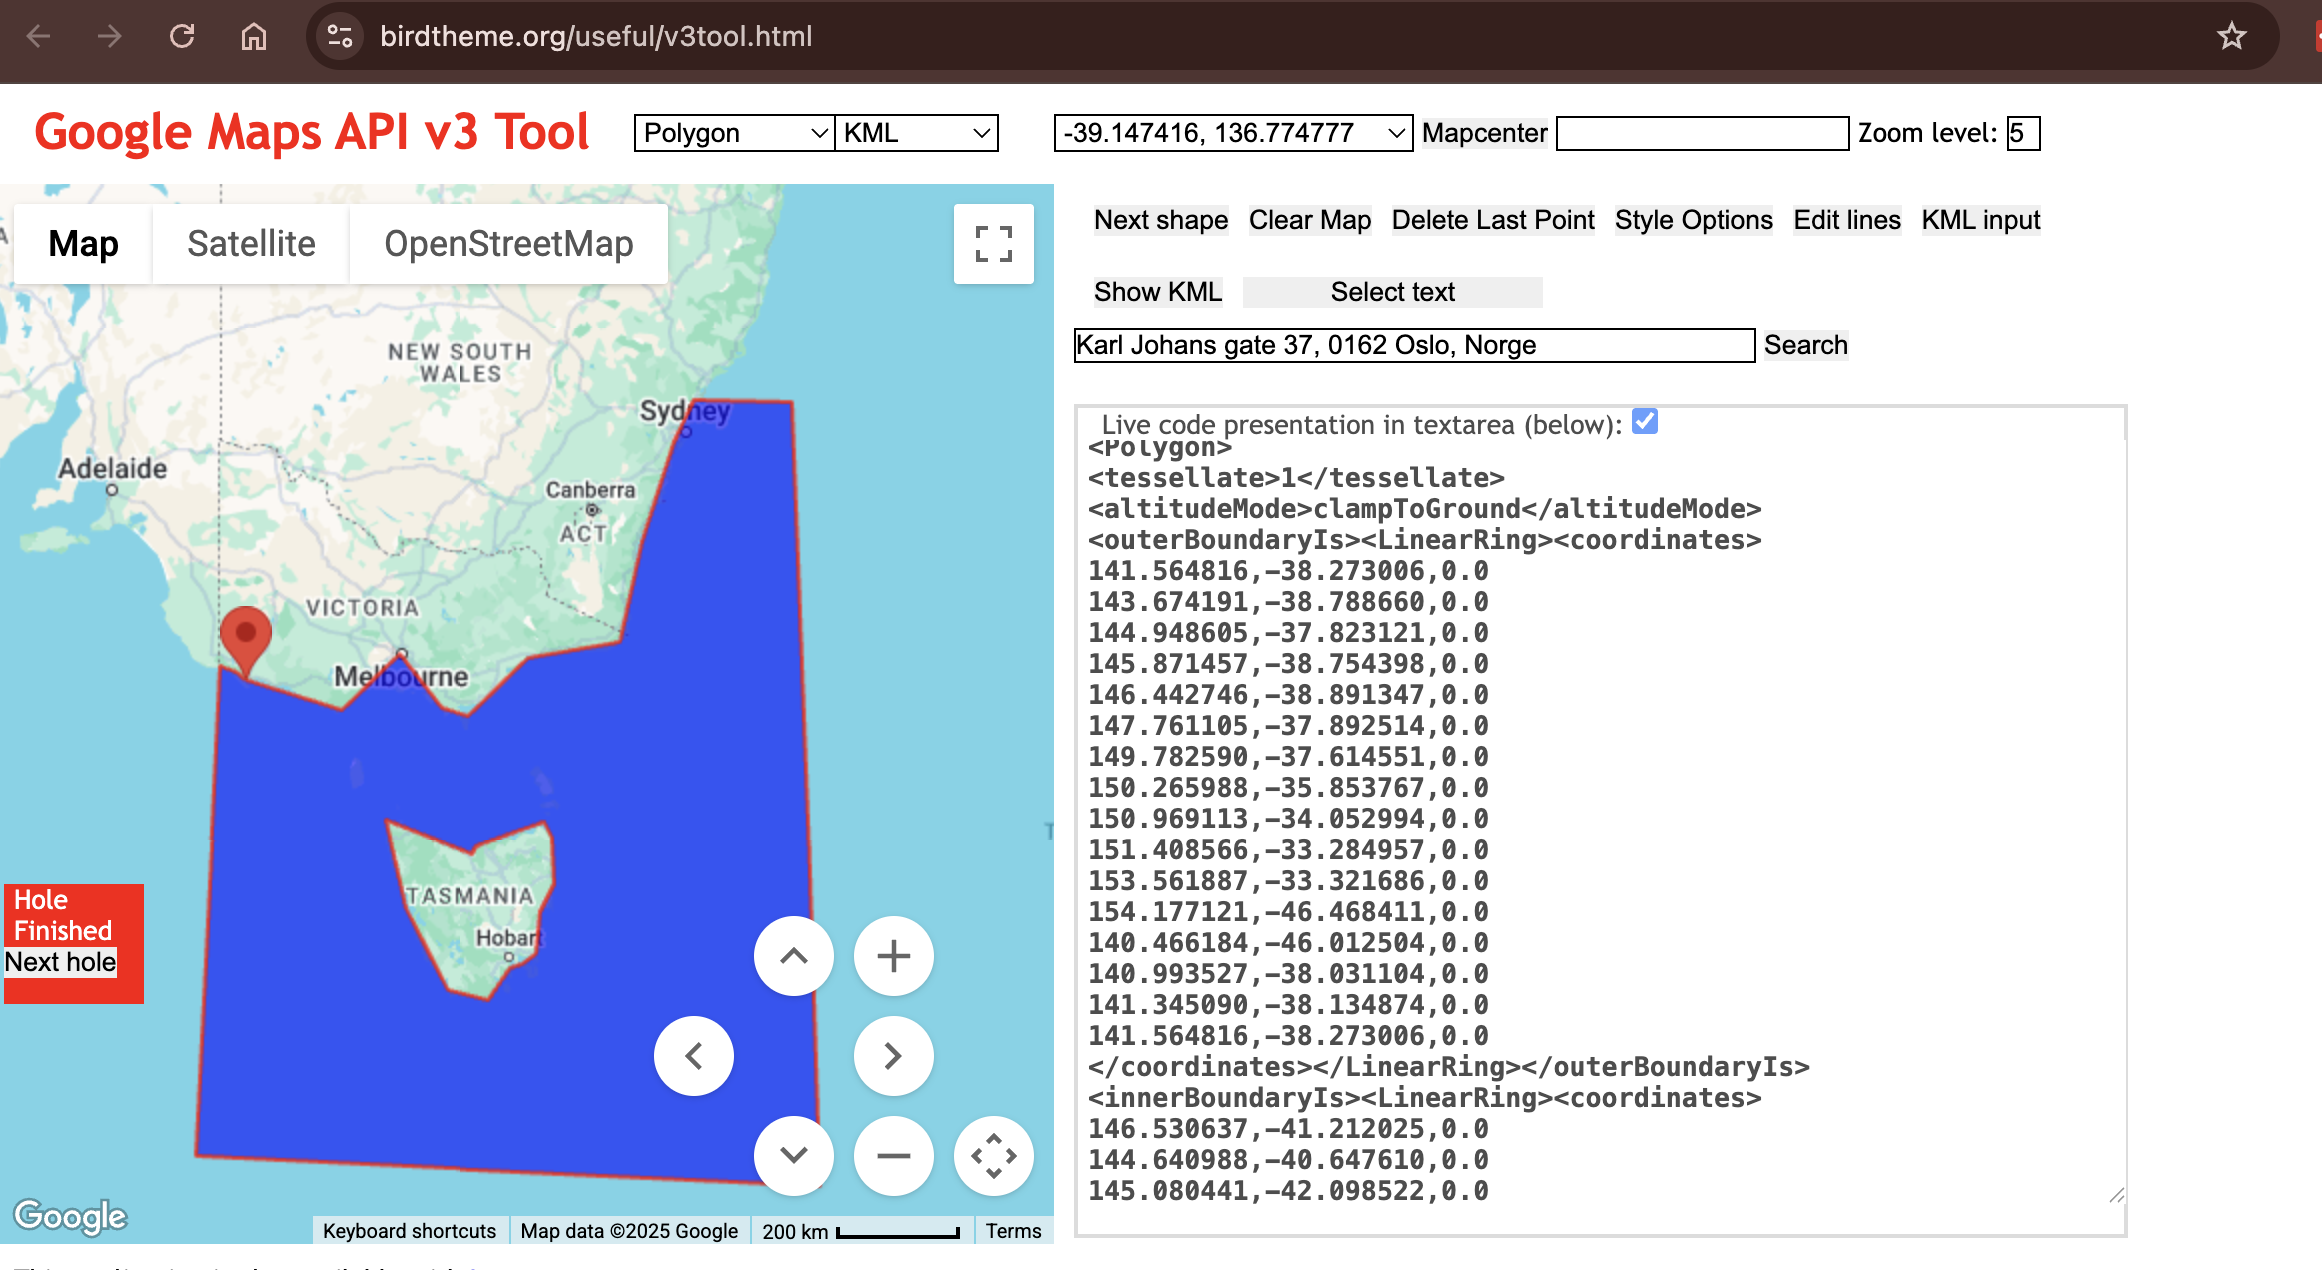
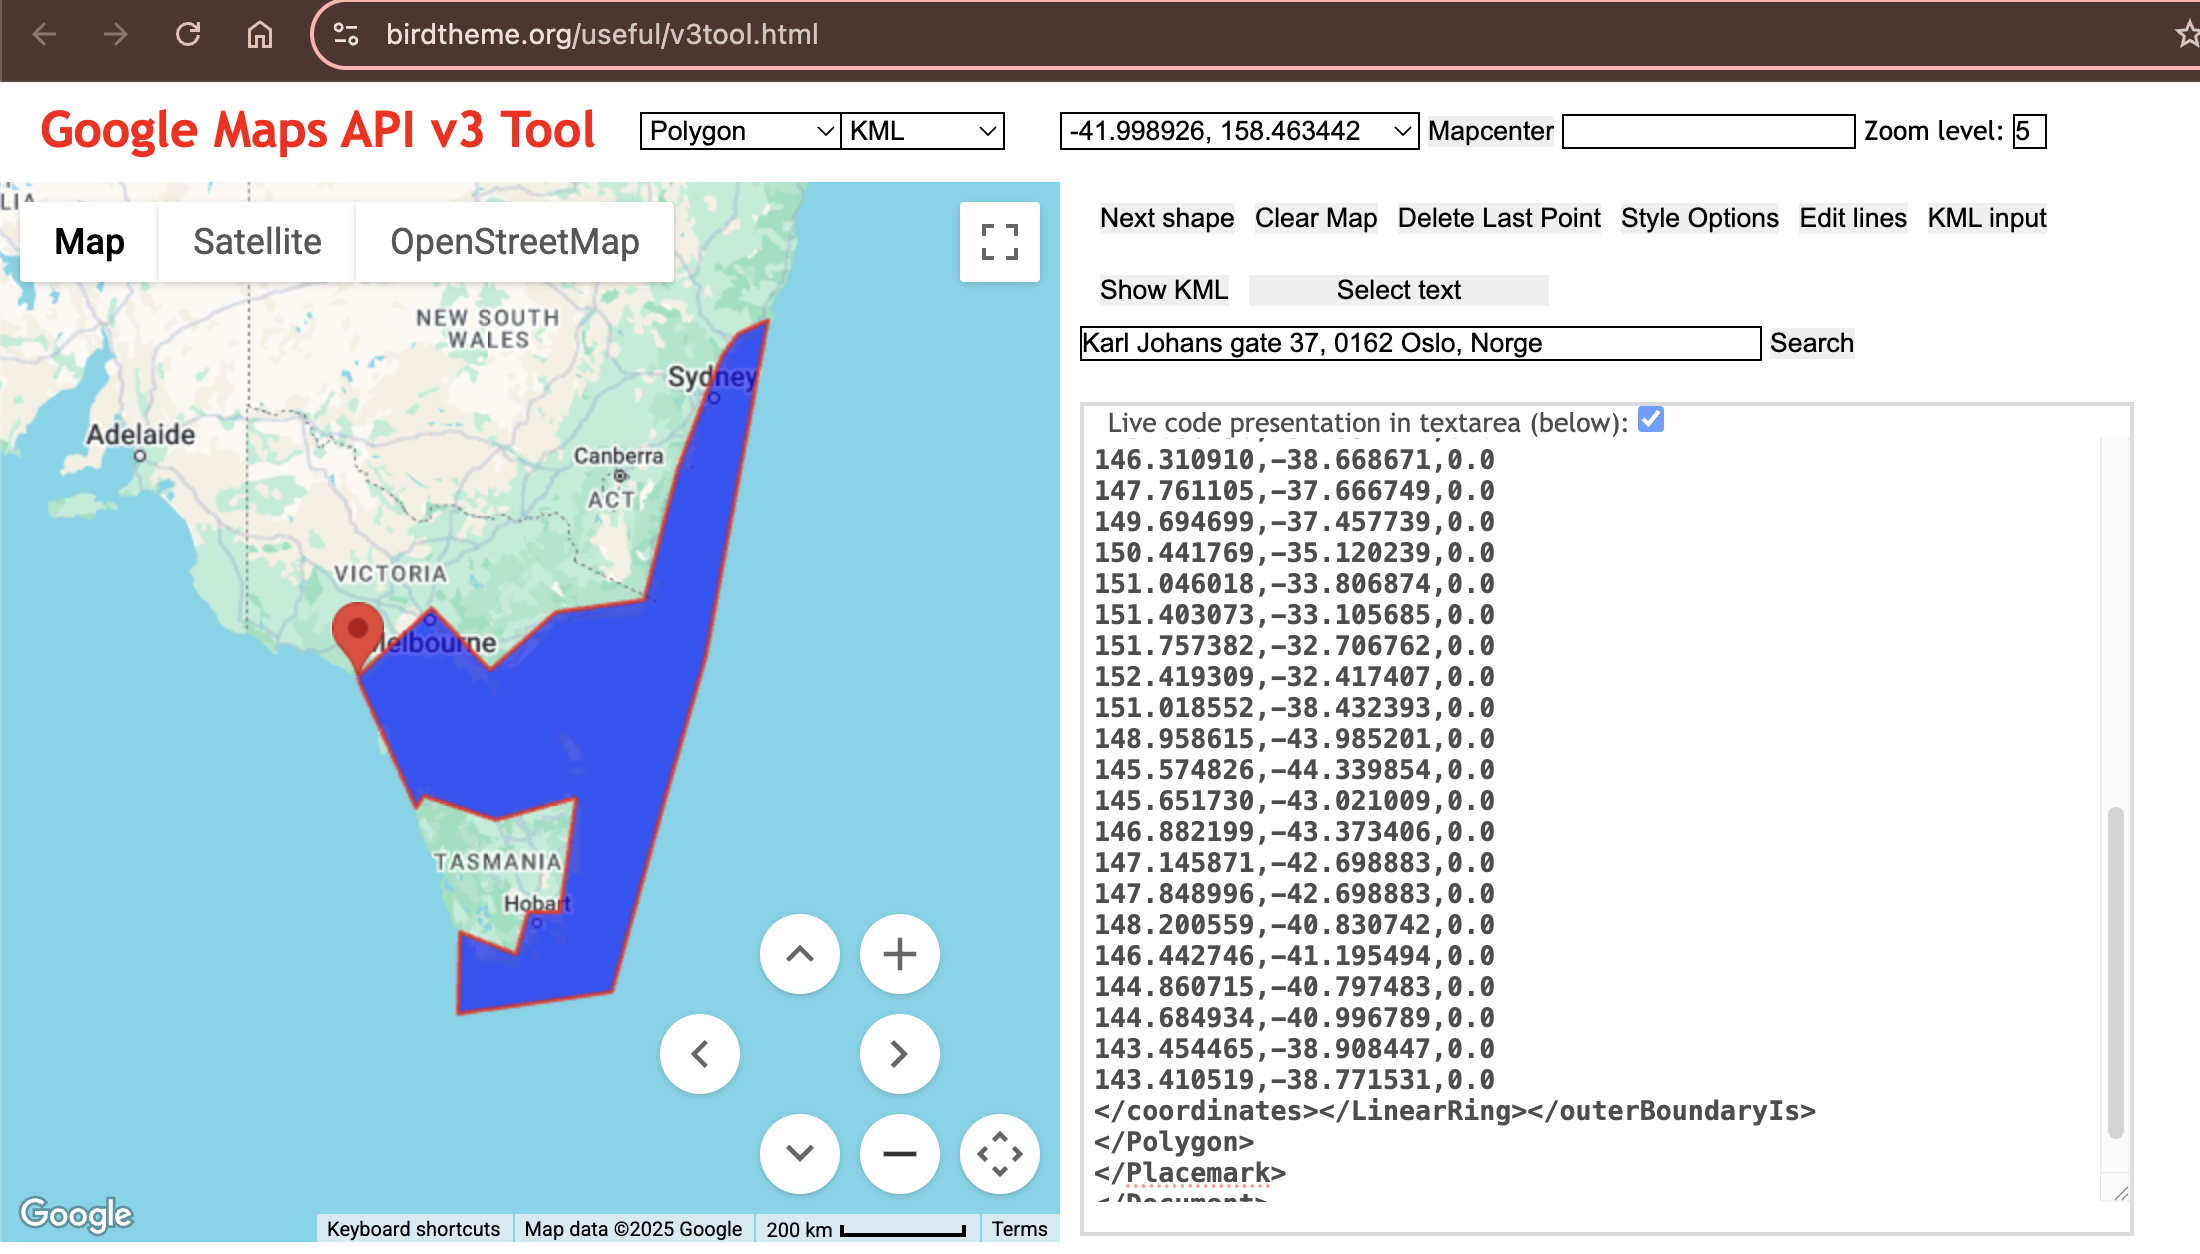
fine tuning materials geared toward new scripted installs, and first pass on feems tutorial

diff --git a/Brisbane2025/FEEMS_API.md b/Brisbane2025/FEEMS_API.md
@@ -17,9 +17,9 @@ valley and the Arabian peninsula.
 
 ![png](images/lions_EEMS.png)
 
-For more information about EEMS, check out [Petkova *et al* 
-(2016)](https://www.nature.com/articles/ng.3464), and for FEEMS, check out 
-[Marcus *et al* (2021)](https://elifesciences.org/articles/61927).
+For more information on these methods see the original manuscripts:
+* EEMS - [Petkova *et al* (2016)](https://www.nature.com/articles/ng.3464)
+* FEEMS - [Marcus *et al* (2021)](https://elifesciences.org/articles/61927).
 
 ## FEEMS install/configuration
 FEEMS can be a bit tricky to install, so for the purpose of this workshop
@@ -27,31 +27,22 @@ we wrote all the steps into a script that you can simply execute (to save
 time). You can see the details of what the script is actually doing
 in the [RADCamp technical configuration document.](./technical-configuration.html#feems-install-script)
 
-## Input data
-What is the necessary input data for FEEMS?
-* genotypes
-* latlongs (= localities of your samples)
-* bounding area for plotting
-* .shp file (global map)
-
-# **FEEMS** analyses
-
-## Access the FEEMS environment
-The FEEMS module requires a substantially different configuration than the
-other analysis tools in this workshop, so we have installed this software
-in a separate conda environment with an isolated jupyter notebook server
-running on a different port. To access this environment open a new browser
-tab and navigate to:
-
-`http://localhost:8801`
+Open a new Terminal and type:
+```
+/home/jovyan/work/scripts/install_feems.sh
+```
+This will run for a few minutes, writing progress to the screen. After it finishes
+you can proceed with the rest of this tutorial.
 
 ## Create a new notebook for the FEEMS analysis
 In the jupyter notebook browser interface navigate to your `ipyrad-workshop`
-directory and create a "New->Python" Notebook.
+directory and use the Launcher to create a new Notebook using the 'feems' 
+environment.
 
-![png](images/raxml-CreateNotebook.png)
+![png](images/jupyter-NewNotebook-feemsEnv.png)
 
-First things first, rename your new notebook to give it a meaningful name. Choose `File->Save Notebook` and rename your notebook to "cheetah-FEEMS.ipynb"
+First things first, rename your new notebook to give it a meaningful name. 
+Choose `File->Save Notebook` and rename your notebook to "seadragon-FEEMS.ipynb"
 
 ## Import FEEMS and other necessary modules
 The `import` keyword directs python to load a module into the currently running
@@ -60,22 +51,25 @@ importing the ipyrad analysis module. Copy the code below into a
 notebook cell and click run. 
 
 ```python
-%matplotlib inline
-
-# base
-import h5py
-import numpy as np
-import pandas as pd
-from sklearn.impute import SimpleImputer 
-# viz 
-import matplotlib.pyplot as plt 
 import cartopy.crs as ccrs 
-# feems 
-from feems.utils import prepare_graph_inputs 
+import h5py
+import matplotlib.pyplot as plt 
+import numpy as np
+
 from feems import SpatialGraph, Viz 
+from feems.utils import prepare_graph_inputs 
+from sklearn.impute import SimpleImputer 
 ```
 
-## Import the data and impute missing values
+## Input data types
+What is the necessary input data for FEEMS? We will briefly walk through these 
+different datatypes and where to geth these from.
+* Genotype data for all samples
+* Latitude/Longitude coordinates for samples
+* Coordinates of a polygon circumscribing your focal region
+* A vector file of a global-scale triangular grid (.shp file)
+
+### Import the genotype data and impute missing values
 
 ```python
 # Path to the input phylip file
@@ -88,40 +82,70 @@ imp = SimpleImputer(missing_values=np.nan, strategy="mean")
 genotypes = imp.fit_transform(np.array(G).T) 
 ```
 
-### What is 'imputation' and why do we need to do it?
+> **What is 'imputation' and why do we need to do it?** FEEMS can't deal with
+missing data. Here we are filling missing genotypes with the mean value at
+a given site.
 
-```python
-locus = 11
-print(G[locus])
-genotypes[:, locus]
-```
-```
-[nan  1. nan  1.  2. nan nan  0.  0. nan nan nan nan nan nan nan nan  1.
- nan  0. nan nan  2.]
-array([0.875, 1.   , 0.875, 1.   , 2.   , 0.875, 0.875, 0.   , 0.   ,
-       0.875, 0.875, 0.875, 0.875, 0.875, 0.875, 0.875, 0.875, 1.   ,
-       0.875, 0.   , 0.875, 0.875, 2.   ])
-```
-```python
-locus = 11
-names = data["snps"].attrs["names"]
-pd.DataFrame([G[locus], genotypes[:, locus]], columns=names, index=["pre-imputation", "post-imputation"]).T
-```
-![png](images/FEEMS-ImputationDF.png)
+### Latitude/Longitude coordinates for samples
+Typically, you will have information about the sampling localities of your data. 
+FEEMS takes this data as a vector of Longitude/Latitude coordinates. To save time 
+we've already prepared this file for you, and you can look at the structure of 
+the file and the first few lines:
 
-## Fetch the GPS coordinates for the samples and the 'outer' points
-Typically, you will have information about the sampling localities of your data. FEEMS takes these data as a vector of GPS coördinates, and the file should have the extension `.coord`. We've already prepared this file for you, and you can simply download it. 
+```bash
+head ~/work/SeadragonData/seadragon_coords.txt
+```
+```
+148.308428 -41.869351
+148.308428 -41.869351
+148.308428 -41.869351
+148.308428 -41.869351
+148.308428 -41.869351
+148.308428 -41.869351
+151.219347 -34.002666
+151.219347 -34.002666
+151.219347 -34.002666
+151.219347 -34.002666
+```
 
-You also need to provide FEEMS with an outline of the area you want to include in your analysis, and provide this as a file with the extension `.outer`. You can use the following [website](http://www.birdtheme.org/useful/v3tool.html) to create one, simply by clicking on the map and then copy-pasting the coördinates to a new file. 
+### Coordinates of a polygon circumscribing your focal region
+You also need to provide FEEMS with an 'outline' of the area you want to include 
+in your analysis. The format of the 'outer' file should be a plain text file
+with a list of Longitude/Latitude points describing a polygon of your bounding
+region. You can use the following [website](http://www.birdtheme.org/useful/v3tool.html) to 
+create one of these, by clicking on the map and then copy-pasting the coordinates 
+to a new file. 
 
 ![png](images/FEEMS_outer.png)
 
-To save time, we've also prepare this file for you, and for this workshop you can simply download it.
+To save time, we've also prepared this file for you and you can look at the
+structure of the file and the first few lines:
 
+```bash
+$ head ~/work/SeadragonData/seadragon_outer.txt
 ```
-!wget https://raw.githubusercontent.com/radcamp/radcamp.github.io/master/Kigali2023/Cheetah.coords
-!wget https://raw.githubusercontent.com/radcamp/radcamp.github.io/master/Kigali2023/Cheetah.outer
 ```
+143.410519 -38.771531
+145.036496 -37.597144
+146.310910 -38.668671
+147.761105 -37.666749
+149.694699 -37.457739
+150.441769 -35.120239
+151.046018 -33.806874
+151.403073 -33.105685
+151.757382 -32.706762
+152.419309 -32.417407
+```
+
+### A vector file of a global-scale triangular grid (.shp file)
+Another necessary input file is a shape file containing a triangular grid
+at a given resolution. It's easiest to use one of the `.shp` files
+provided in the [FEEMS github repository](https://github.com/NovembreLab/feems/tree/main/feems/data),
+which are at 100km and 250km resolution. If you need finer resolution you can use
+a python package called [`pygplates`](https://www.gplates.org/docs/pygplates/),
+or in R you can use the [`sf`](https://r-spatial.github.io/sf/) package. Again,
+to save time we provide a grid file scaled for the Seadragon data within the
+cloud instance `work/grid` directory.
 
 ## Load the coordinates of the samples, the outline and the global shp file
 ```python

diff --git a/Brisbane2025/data_QC.md b/Brisbane2025/data_QC.md
@@ -9,13 +9,13 @@ The CLI provides a way to navigate a file system, move files around, and run com
 For now we will start with 4 of the most common and useful commands:
 
 ```
-(base) jovyan@493222dbc32d:~$ pwd
+(ipyrad) jovyan@493222dbc32d:~$ pwd
 /home/jovyan
 ```
 `pwd` stands for **"print working directory"**, which literally means "where am I now in this filesystem". Just like when you open a file browser with windows or mac, when you open a new terminal the command line will start you out in your "home" directory. Ok, now we know where we are, lets take a look at what's in this directory:
 
 ```
-(base) jovyan@493222dbc32d:~$ ls
+(ipyrad) jovyan@493222dbc32d:~$ ls
 evolution  miniconda3  work
 ```
 
@@ -31,13 +31,13 @@ analysis, but you'll also have a ***ton*** of stuff in your home directory.
 We can start out by adding the first directory for this workshop:
 
 ```
-(base) jovyan@493222dbc32d:~$ mkdir ipyrad-workshop
+(ipyrad) jovyan@493222dbc32d:~$ mkdir ipyrad-workshop
 ```
 
 `mkdir` stands for **"make directory"**, and unlike the other two commands, this command takes an "argument". This argument is the name of the directory you wish to create, so here we direct mkdir to create a new directory called "ipyrad-workshop". Now you can use `ls` again, to look at the contents of your home directory and you should see this new directory now:
 
 ```
-(base) jovyan@493222dbc32d:~$ ls
+(ipyrad) jovyan@493222dbc32d:~$ ls
 evolution  ipyrad-workshop  miniconda3  work
 ```
 
@@ -52,9 +52,9 @@ thing. First **Change Directory** into your `ipyrad-workshop` directory with the
 command, then make the shortcut with `ln` (just copy/paste this command).
 
 ```bash
-(base) jovyan@493222dbc32d:~$ cd ipyrad-workshop
-(base) jovyan@493222dbc32d:~/ipyrad-workshop$ ln -s /home/jovyan/work/SeadragonData/raws ./raws
-(base) jovyan@493222dbc32d:~/ipyrad-workshop$ ls -l
+(ipyrad) jovyan@493222dbc32d:~$ cd ipyrad-workshop
+(ipyrad) jovyan@493222dbc32d:~/ipyrad-workshop$ ln -s /home/jovyan/work/SeadragonData/raws ./raws
+(ipyrad) jovyan@493222dbc32d:~/ipyrad-workshop$ ls -l
 ```
 ```
 lrwxrwxrwx 1 jovyan users   51 Apr 23 14:51 raws -> /home/jovyan/work/SeadragonData/raws
@@ -80,7 +80,7 @@ You can see the fastq files for these samples by listing (`ls`) the directory wh
 they are stored, the `raws` shortcut we created earlier:
 
 ```
-(base) jovyan@493222dbc32d:~/ipyrad-workshop$ ls raws
+(ipyrad) jovyan@493222dbc32d:~/ipyrad-workshop$ ls raws
 Bic1_R1_.fastq.gz  Bic6_R1_.fastq.gz  Fli1_R1_.fastq.gz  Hob1_R1_.fastq.gz  Jer4_R1_.fastq.gz  Por5_R1_.fastq.gz
 Bic2_R1_.fastq.gz  Bot1_R1_.fastq.gz  Fli2_R1_.fastq.gz  Hob2_R1_.fastq.gz  Por1_R1_.fastq.gz  Syd1_R1_.fastq.gz
 Bic3_R1_.fastq.gz  Bot2_R1_.fastq.gz  Fli3_R1_.fastq.gz  Jer1_R1_.fastq.gz  Por2_R1_.fastq.gz  Syd2_R1_.fastq.gz
@@ -102,7 +102,7 @@ use `zcat` to read the gzip format and `head` to carve off a small part of the d
 ## zcat: unZip and conCATenate the file to the screen
 ## head -n 20: Just take the first 20 lines of input
 
-(base) jovyan@493222dbc32d:~/ipyrad-workshop$ zcat raws/Bic1_R1_.fastq.gz | head -n 20
+(ipyrad) jovyan@493222dbc32d:~/ipyrad-workshop$ zcat raws/Bic1_R1_.fastq.gz | head -n 20
 ```
 ```
 @SRR12395901.1 3_11401_20767_1041/1
@@ -161,13 +161,13 @@ to keep the FastQC results organized. Make a new directory with
 `mkdir`:
 
 ```bash
-(base) jovyan@493222dbc32d:~/ipyrad-workshop$ mkdir fastqc-results
-(base) jovyan@493222dbc32d:~/ipyrad-workshop$ ls
+(ipyrad) jovyan@493222dbc32d:~/ipyrad-workshop$ mkdir fastqc-results
+(ipyrad) jovyan@493222dbc32d:~/ipyrad-workshop$ ls
 fastqc-results raws
 ```
 Now run FastQC on one of the samples:
 ```
-(base) jovyan@493222dbc32d:~/ipyrad-workshop$ fastqc -o fastqc-results raws/Bic1_R1_.fastq.gz 
+(ipyrad) jovyan@493222dbc32d:~/ipyrad-workshop$ fastqc -o fastqc-results raws/Bic1_R1_.fastq.gz 
 ```
 > **Note:** The `-o` flag tells fastqc where to write output files.
 
@@ -202,7 +202,7 @@ Analysis complete for Bic1_R1_.fastq.gz
 
 If you feel so inclined you can QC all the raw data using a wildcard substitution:
 ```
-(base) jovyan@493222dbc32d:~/ipyrad-workshop$ fastqc -o fastqc-results raws/*
+(ipyrad) jovyan@493222dbc32d:~/ipyrad-workshop$ fastqc -o fastqc-results raws/*
 ```
 > **Note:** The `*` here is a special command line character that means "Everything 
 that matches this pattern". So here `raws/*` matches _everything_ in the raws 

diff --git a/Brisbane2025/ipyrad-CLI-FullTutorial.md b/Brisbane2025/ipyrad-CLI-FullTutorial.md
@@ -180,16 +180,7 @@ p, s, l                        ## [27] [output_formats]: Output formats (see doc
                                ## [29] [reference_as_filter]: Reads mapped to this reference are removed in step 3
 ```
 
-In general the defaults are sensible, and we won't mess with them for now, 
-but there are a few parameters we *must* check and update:
-* The path to the raw data
-* The dataype
-* The restriction overhang sequence(s)
 
-Because we're looking at population-level data, we suggest to increase the 
-clustering threshold `[14] [clust_threshold]`. You can also change `[27] 
-[output_formats]`. When you put `*`, ipyrad will automatically save your output 
-in all available formats, see [the manual](https://ipyrad.readthedocs.io/en/master/output_formats.html#full-output-formats).
 
 If you look in the file browser pane (to the left) you should
 now see a new file `params-seadragon.txt` in the file browser.
@@ -201,11 +192,27 @@ changes to this params file.
 
 ![png](images/ipyrad-EditParams2.png)
 
+In general the defaults are sensible, and we won't mess with them for now, 
+but there are a few parameters we *must* check and update:
+* The path to the raw data (`sorted_fastq_path`)
+* The dataype (`datatype`)
+* The restriction overhang sequence(s) (`restriction_overhang`)
+
 We need to specify where the raw data files are located, the type of data we
 are using (.e.g., 'gbs', 'rad', 'ddrad', 'pairddrad), and which enzyme cut site
-overhangs are expected to be present on the reads. Change the following lines
-in your params files to look like this (**Be careful to notice which lines
-of the params file you are modifying**):
+site overhangs are expected to be present on the reads.
+
+There are a couple parameters that have defaults that are optional to change:
+* The clustering threshold (`clust_threshold`)
+* The output formats to generate (`output_formats`)
+
+Becuase we're looking at population-level data, we suggest to increase the 
+clustering threshold `[14] [clust_threshold]` to 0.9 or a bit greater. You can also change `[27] 
+[output_formats]`. When you put `*`, ipyrad will automatically save your output 
+in all available formats, see [the manual](https://ipyrad.readthedocs.io/en/master/output_formats.html#full-output-formats).
+
+Change the following lines in your params files to look like this (**Be careful 
+to notice which lines of the params file you are modifying**):
 
 ```bash
 ./raws/*.fastq.gz               ## [4] [sorted_fastq_path]: Location of demultiplexed/sorted fastq files
@@ -256,7 +263,8 @@ the `-c` flag. If you do not specify the number of cores ipyrad assumes you want
 ## -s    the step to run
 ## -c    run on 4 cores
 $ ipyrad -p params-seadragon.txt -s 1 -c 4
-
+```
+```
  -------------------------------------------------------------
   ipyrad [v.0.9.105]
   Interactive assembly and analysis of RAD-seq data

diff --git a/Brisbane2025/setup.md b/Brisbane2025/setup.md
@@ -44,12 +44,12 @@ into a script that you can execute (to save time and prevent typos). You can see
 the details of what the script is actually doing in the RADCamp 
 [technical configuration document](./technical-configuration.html#ipyrad-install-script).
 
-In your terminal type this command:
+In your terminal type this command (it will run for 3-4 minutes):
 ```
-./work/scripts/install_ipyrad.sh
+/home/jovyan/work/scripts/install_ipyrad.sh
 ```
 
-After it's finished type 'exit' and then open another terminal. Your prompt 
+**After it's finished type 'exit' and then open another terminal**. Your prompt 
 should now look like this:
 
 ```
@@ -64,4 +64,5 @@ ipyrad 0.9.105
 ```
 
 ### Installing ipyrad on your home system
-* [Documentation for installation on laptops and HPC systems](https://ipyrad.readthedocs.io/en/latest/3-installation.html)
+For your convenience here is a link to performing the 
+[ipyrad installation on laptops and HPC systems](https://ipyrad.readthedocs.io/en/latest/3-installation.html)
